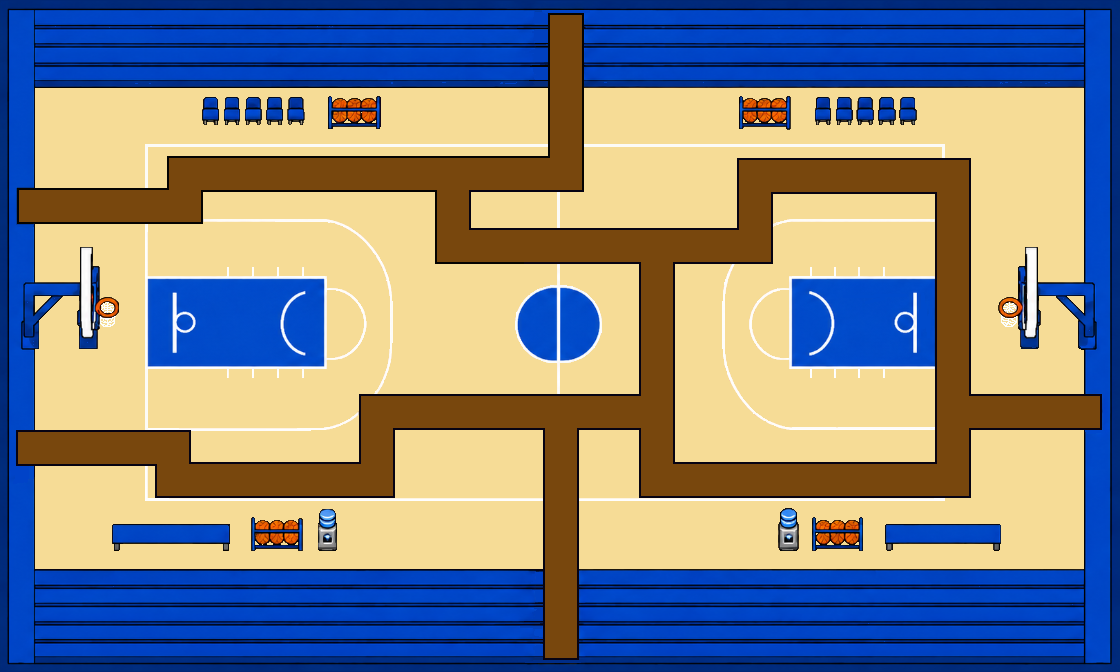
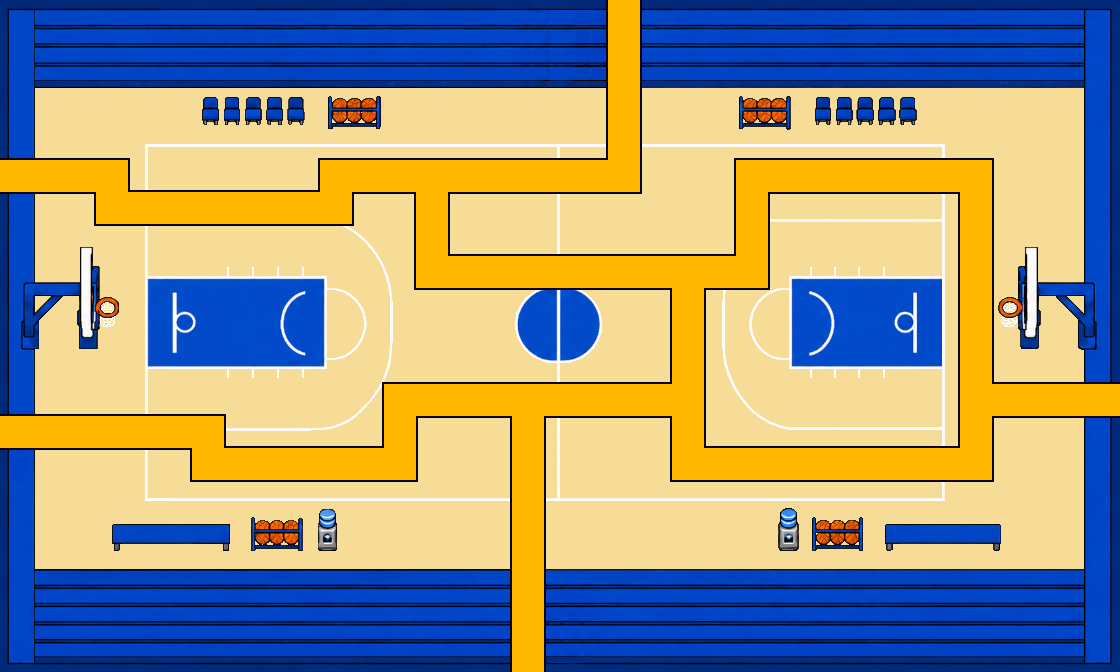
J'ai relier le deplacement calculé par BFS avec la nouvelle map logique que javais fait dans le dernier commit au deplacement de l'attaquant. La map faisant exactement plein de petite case de 32x32. C'est a dire que on peu rentrer a l'interieur plein de case en 32x32, elle en serait rempli parfaitem
Et donc apres quelque ajustement technique dans Terrain on a maintenant
un ballon qui se deplace tout seul sur 6 chemin different pour l'instant
choisi au hasard avec un Random.

Changed region(s): [[0.0, 0.0, 1.0, 1.0]]

diff --git a/src/main/java/com/example/sae/modele/Terrain.java b/src/main/java/com/example/sae/modele/Terrain.java
@@ -23,39 +23,33 @@ public class Terrain {
      */
     private int[][] carteLogique = {
 
-            {0,0,0,0,0,0,0,0,0,0,0,0,0,0,0,0,0,0,0,0,0,0,0,0,0,0,0,0,0,0,0,0,0,0,0},
-            {0,0,0,0,0,0,0,0,0,0,0,0,0,0,0,0,0,0,0,0,0,0,0,0,0,0,0,0,0,0,0,0,0,0,0},
-            {0,0,0,0,0,0,0,0,0,0,0,0,0,0,0,0,0,0,0,0,0,0,0,0,0,0,0,0,0,0,0,0,0,0,0},
+            {0,0,0,0,0,0,0,0,0,0,0,0,0,0,0,0,0,0,0,3,0,0,0,0,0,0,0,0,0,0,0,0,0,0,0},
+            {0,0,0,0,0,0,0,0,0,0,0,0,0,0,0,0,0,0,0,1,0,0,0,0,0,0,0,0,0,0,0,0,0,0,0},
+            {0,0,0,0,0,0,0,0,0,0,0,0,0,0,0,0,0,0,0,1,0,0,0,0,0,0,0,0,0,0,0,0,0,0,0},
 
-            // entree 1 en haut a gauche
-            {0,0,0,0,0,0,0,0,0,0,0,0,0,0,0,0,0,0,0,0,0,0,0,0,0,0,0,0,0,0,0,0,0,0,0},
-            {0,0,0,0,0,0,0,0,0,0,0,0,0,0,0,0,0,1,1,1,1,1,1,1,1,1,1,1,1,1,1,1,1,1,3},
-            {2,1,1,1,1,1,1,1,1,1,1,0,0,0,0,0,0,1,0,0,0,0,0,0,0,0,0,0,0,0,0,0,0,0,0},
+            {0,0,0,0,0,0,0,0,0,0,0,0,0,0,0,0,0,0,0,1,0,0,0,0,0,0,0,0,0,0,0,0,0,0,0},
+            {0,0,0,0,0,0,0,0,0,0,0,0,0,0,0,0,0,0,0,1,0,0,0,0,0,0,0,0,0,0,0,0,0,0,0},
+            {2,1,1,1,0,0,0,0,0,0,1,1,1,1,1,1,1,1,1,1,0,0,0,1,0,0,0,0,0,0,0,0,0,0,0},
 
-            {0,0,0,0,0,0,0,0,0,0,1,0,0,0,0,0,0,1,0,0,0,0,0,0,0,0,0,0,0,0,0,0,0,0,0},
-            {0,0,0,0,0,0,0,0,0,0,1,0,0,0,0,0,0,1,0,0,0,0,0,0,0,0,0,0,0,0,0,0,0,0,0},
-            {0,0,0,0,0,0,0,0,0,0,1,0,0,0,0,0,0,1,0,0,0,0,0,0,0,0,0,0,0,0,0,0,0,0,0},
-            {0,0,0,0,0,0,0,0,0,0,1,0,0,0,0,0,0,1,0,0,0,0,0,0,0,0,0,0,0,0,0,0,0,0,0},
+            {0,0,0,1,1,1,1,1,1,1,1,0,0,1,0,0,0,0,0,0,0,0,0,1,0,0,0,0,0,0,0,0,0,0,0},
+            {0,0,0,0,0,0,0,0,0,0,0,0,0,1,0,0,0,0,0,0,0,0,0,1,0,0,0,0,0,0,0,0,0,0,0},
+            {0,0,0,0,0,0,0,0,0,0,0,0,0,1,1,1,1,1,1,1,1,1,1,1,0,0,0,0,0,0,0,0,0,0,0},
 
-            // chemin central + arrivee du milieu
-            {0,0,0,0,0,0,0,0,1,1,1,1,1,1,1,1,1,1,1,1,1,1,1,1,1,1,1,1,1,1,1,1,1,1,3},
+            {0,0,0,0,0,0,0,0,0,0,0,0,0,0,0,0,0,0,0,0,0,1,0,0,0,0,0,0,0,0,0,0,0,0,0},
+            {0,0,0,0,0,0,0,0,0,0,0,0,0,0,0,0,0,0,0,0,0,1,0,0,0,0,0,0,0,0,0,0,0,0,0},
+            {0,0,0,0,0,0,0,0,0,0,0,0,0,0,0,0,0,0,0,0,0,1,0,0,0,0,0,0,0,0,0,0,0,0,0},
 
-            {0,0,0,0,0,0,0,0,1,0,0,0,0,0,0,0,0,1,0,0,0,0,0,0,0,0,0,0,0,0,0,0,0,0,0},
-            {0,0,0,0,0,0,0,0,1,0,0,0,0,0,0,0,0,1,0,0,0,0,0,0,0,0,0,0,0,0,0,0,0,0,0},
-            {0,0,0,0,0,0,0,0,1,0,0,0,0,0,0,0,0,1,0,0,0,0,0,0,0,0,0,0,0,0,0,0,0,0,0},
-            {0,0,0,0,0,0,0,0,1,0,0,0,0,0,0,0,0,1,0,0,0,0,0,0,0,0,0,0,0,0,0,0,0,0,0},
+            {0,0,0,0,0,0,0,0,0,0,0,0,1,1,1,1,1,1,1,1,1,1,0,0,0,0,0,0,0,0,1,1,1,1,3},
+            {2,1,1,1,1,1,1,0,0,0,0,0,1,0,0,0,1,0,0,0,0,1,0,0,0,0,0,0,0,0,1,0,0,0,0},
+            {0,0,0,0,0,0,1,1,1,1,1,1,1,0,0,0,1,0,0,0,0,1,1,1,1,1,1,1,1,1,1,0,0,0,0},
 
-            // entree 2 en bas a gauche
-            {2,1,1,1,1,1,1,1,1,0,0,0,0,0,0,0,0,1,0,0,0,0,0,0,0,0,0,0,0,0,0,0,0,0,0},
+            {0,0,0,0,0,0,0,0,0,0,0,0,0,0,0,0,1,0,0,0,0,0,0,0,0,0,0,0,0,0,0,0,0,0,0},
+            {0,0,0,0,0,0,0,0,0,0,0,0,0,0,0,0,1,0,0,0,0,0,0,0,0,0,0,0,0,0,0,0,0,0,0},
+            {0,0,0,0,0,0,0,0,0,0,0,0,0,0,0,0,1,0,0,0,0,0,0,0,0,0,0,0,0,0,0,0,0,0,0},
 
-            {0,0,0,0,0,0,0,0,0,0,0,0,0,0,0,0,0,1,0,0,0,0,0,0,0,0,0,0,0,0,0,0,0,0,0},
-
-            // arrivee du bas
-            {0,0,0,0,0,0,0,0,0,0,0,0,0,0,0,0,0,1,1,1,1,1,1,1,1,1,1,1,1,1,1,1,1,1,3},
-
-            {0,0,0,0,0,0,0,0,0,0,0,0,0,0,0,0,0,0,0,0,0,0,0,0,0,0,0,0,0,0,0,0,0,0,0},
-            {0,0,0,0,0,0,0,0,0,0,0,0,0,0,0,0,0,0,0,0,0,0,0,0,0,0,0,0,0,0,0,0,0,0,0},
-            {0,0,0,0,0,0,0,0,0,0,0,0,0,0,0,0,0,0,0,0,0,0,0,0,0,0,0,0,0,0,0,0,0,0,0}
+            {0,0,0,0,0,0,0,0,0,0,0,0,0,0,0,0,1,0,0,0,0,0,0,0,0,0,0,0,0,0,0,0,0,0,0},
+            {0,0,0,0,0,0,0,0,0,0,0,0,0,0,0,0,1,0,0,0,0,0,0,0,0,0,0,0,0,0,0,0,0,0,0},
+            {0,0,0,0,0,0,0,0,0,0,0,0,0,0,0,0,3,0,0,0,0,0,0,0,0,0,0,0,0,0,0,0,0,0,0}
     };
 
     public int getLargeurPixels() {

diff --git a/src/main/java/com/example/sae/modele/Attaquant.java b/src/main/java/com/example/sae/modele/Attaquant.java
@@ -1,6 +1,5 @@
 package com.example.sae.modele;
 
-import java.util.ArrayList;
 import java.util.List;
 import java.util.Random;
 
@@ -8,55 +7,97 @@ public class Attaquant {
 
     private double x;
     private double y;
-    private int indicePoint;
-    private double pixDeplacement;
 
-    private final double[][] chemin = {
-            {0, 96}, //point 1
-            {320, 96},//point 2
-            {320, 224},//point 3
-            {64, 224},//point 4
-            {64, 352},//point 5
-            {416, 352},
-            {416, 96},
-            {736, 96},
-            {736, 352},
-            {992, 352},
-            {992, 512},
-            {256, 512},
-            {256, 704}
+    private int indicePoint;
+    private double pixDeplacement;/*
+    avant :
+    double[][] chemin = {
+       {0, 96},
+       {320, 96},
+       {320, 224}
     };
+    */
+
+    private List<int[]> chemin;
 
     public Attaquant() {
-        this.x = chemin[0][0]; // point 1 valeur x
-        this.y = chemin[0][1]; // point 1 valeur y
+        Terrain terrain = new Terrain();
+        Random random = new Random();
+
         this.pixDeplacement = 1;
         this.indicePoint = 0;
+
+        int cheminAleatoire = random.nextInt(6) + 1;
+
+        switch (cheminAleatoire) {
+            case 1:
+                this.chemin = terrain.trouverChemin(5, 0, 0, 19);
+                break;
+
+            case 2:
+                this.chemin = terrain.trouverChemin(5, 0, 12, 34);
+                break;
+
+            case 3:
+                this.chemin = terrain.trouverChemin(5, 0, 20, 16);
+                break;
+
+            case 4:
+                this.chemin = terrain.trouverChemin(13, 0, 0, 19);
+                break;
+
+            case 5:
+                this.chemin = terrain.trouverChemin(13, 0, 12, 34);
+                break;
+
+            default:
+                this.chemin = terrain.trouverChemin(13, 0, 20, 16);
+                break;
+        }
+
+        if (!chemin.isEmpty()) {
+            int[] premiereCase = chemin.get(0);
+
+            this.x = convertirColonneEnPixel(premiereCase[1]);
+            this.y = convertirLigneEnPixel(premiereCase[0]);
+        }
     }
 
     public void avancer() {
-        if (indicePoint >= chemin.length - 1) {
+        if (chemin.isEmpty()) {
             return;
-        } //si le ballon arrive au dernier point il ne bouge plus
+        }
 
-        double cibleX = chemin[indicePoint + 1][0];//Recup du prochain point a atteindre
-        double cibleY = chemin[indicePoint + 1][1];
+        if (indicePoint >= chemin.size() - 1) {
+            return;
+        }
 
-        double dx = cibleX - x;//calcul distance entre ballon et point
+        int[] caseCible = chemin.get(indicePoint + 1);
+
+        double cibleX = convertirColonneEnPixel(caseCible[1]);
+        double cibleY = convertirLigneEnPixel(caseCible[0]);
+
+        double dx = cibleX - x;
         double dy = cibleY - y;
 
-        double distance = Math.sqrt(dx * dx + dy * dy);//formule de distance entre 2point
+        double distance = Math.sqrt(dx * dx + dy * dy);
 
         if (distance <= pixDeplacement) {
             x = cibleX;
             y = cibleY;
             indicePoint++;
-
         } else {
-
-            x += pixDeplacement * dx / distance; //tan tque le ballon n'est pas arrivé a sa cible il avance
-            y += pixDeplacement * dy / distance;// un peu a la vitesse de pixDeplacement
+            x += pixDeplacement * dx / distance;
+            y += pixDeplacement * dy / distance;
         }
+    }
+
+    private double convertirColonneEnPixel(int colonne) {
+        return colonne * Terrain.TAILLE_CASE + Terrain.TAILLE_CASE / 2.0;
+    }
+
+    private double convertirLigneEnPixel(int ligne) {
+        return ligne * Terrain.TAILLE_CASE + Terrain.TAILLE_CASE / 2.0;
     }
 
     public double getX() {

diff --git a/src/main/java/com/example/sae/vue/AttaquantVue.java b/src/main/java/com/example/sae/vue/AttaquantVue.java
@@ -22,7 +22,7 @@ public class AttaquantVue {
     }
 
     public void mettreAJourPosition() {
-        imageView.setLayoutX(attaquant.getX()+ 16);
-        imageView.setLayoutY(attaquant.getY()+ 16);
+        imageView.setLayoutX(attaquant.getX() - 16);
+        imageView.setLayoutY(attaquant.getY() - 16);
     }
 }
